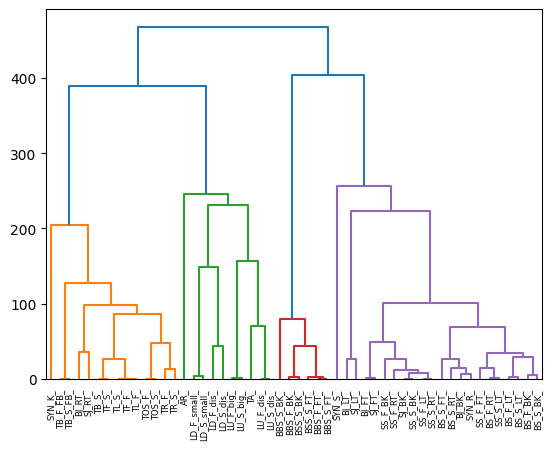
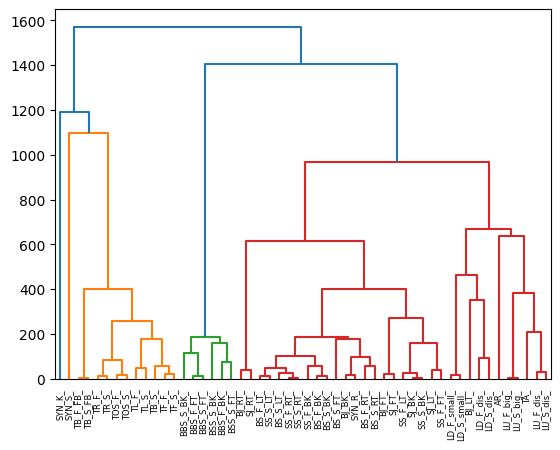
Final DTW horizontal and vertical vector results

Changed region(s): [[0.0, 0.0311, 1.0, 0.8711], [0.0616, 0.8711, 0.9855, 0.9956], [0.5543, 0.0311, 0.5851, 0.0622]]

diff --git a/Vector_vertical_sim.py b/Vector_vertical_sim.py
@@ -1,9 +1,9 @@
-from common_funs import compute_df_query, compute_files_ls
-from lb_funs import calc_min_dist_MD, upper_envelope, lower_envelope, construct_lower_MBRs, construct_upper_MBRs
+from common_funs import compute_df_query, compute_files_ls, vector_vertical
 
 import numpy as np
 import pandas as pd
 import warnings
+
 import time
 from scipy.cluster.hierarchy import dendrogram, linkage
 from scipy.spatial.distance import squareform
@@ -11,10 +11,9 @@ from sklearn.cluster import AgglomerativeClustering
 import matplotlib.pyplot as plt
 warnings.filterwarnings('ignore')
 
-sakoe_chiba = 20
-N = 20
-
 path = "./files_dances"
+n_frames = 6
+
 # group files belonging to each video in a different sublist, combine all sublist into one list
 files_ls = compute_files_ls(path)
 dendro_arr_fill = np.zeros((52, 52))
@@ -23,31 +22,22 @@ for index_query in range(0, 52):
     # compute angle vectors for query video
     newDF_query = compute_df_query(path, files_ls, index_query)
 
-    u = upper_envelope(newDF_query, sakoe_chiba)
-    l = lower_envelope(newDF_query, sakoe_chiba)
-
-    Q_u_r = construct_upper_MBRs(u, N)
-    Q_l_r = construct_lower_MBRs(l, N)
-
     # loop over all other videos to be compared with query
     for g in range(index_query + 1, 52):
         newDF = compute_df_query(path, files_ls, g)
         # compute DTW similarity
-
-        T_u_r = construct_upper_MBRs(newDF, N)
-        T_l_r = construct_lower_MBRs(newDF, N)
-        lb1 = calc_min_dist_MD(T_u_r, T_l_r, Q_u_r, Q_l_r, N)
-        dendro_arr_fill[index_query, g] = lb1
-        #print(g)
+        dtw_sim = vector_vertical(newDF, newDF_query, n_frames)
+        dendro_arr_fill[index_query, g] = dtw_sim
+        print(g)
     print(index_query)
 
 end = time.time()
 print(end - start)
 
 dendro_arr_complete = dendro_arr_fill + dendro_arr_fill.T - np.diag(np.diag(dendro_arr_fill))
-pd.DataFrame(dendro_arr_complete).to_csv("DTW_lb_sim_arr_cut_filtered_csv")
+pd.DataFrame(dendro_arr_complete).to_csv("Vector_vertical_sim_arr_filtered_csv")
 clustering = AgglomerativeClustering(n_clusters = 9, affinity = 'precomputed', linkage = 'average').fit(dendro_arr_complete)
-file1 = open("DTW_lb_sim_arr_cut_filtered.txt","w")
+file1 = open("Vector_vertical_arr_filtered.txt","w")
 txt_time = "time taken for simulation " + str(end - start)
 file1.writelines(str(clustering.labels_) + txt_time)
 file1.close()
@@ -69,4 +59,4 @@ dists = squareform(dendro_arr_complete)
 Z = linkage(dists, 'average')
 plt.figure()
 dn = dendrogram(Z, labels = files_names)
-plt.savefig('./Dendrograms/DTW_lb_dendro_cut_filtered.png', format='png', bbox_inches='tight')
+plt.savefig('./Dendrograms/Vector_vertical_dendro_filtered.png', format='png', bbox_inches='tight')

diff --git a/common_funs.py b/common_funs.py
@@ -101,7 +101,7 @@ def dtw_cosSim_horizontal(s, t):
 
 # compute df for query
 def compute_df_query(path, files_ls, index):
-    newDF_AR = pd.DataFrame(index=range(10))
+    newDF_AR = pd.DataFrame(index=range(29))
     i = 0
     for data in files_ls[index]:
         f = open(os.path.join(path, data), 'r')
@@ -143,12 +143,11 @@ def compute_query_ls(path, index):
     files_AR.append(file)
     return files_AR
 
-def vector_vertical(s, t):
+def vector_vertical(s, t, n_frames):
     n_cols, m_cols = len(s.columns), len(t.columns)
     # vectors are of different lengths, take the shortest and loop over values for both videos for that range
     min_cols = min(n_cols, m_cols)
     sim_ls = []
-    n_frames = 6
     # general case
     for i in range(min_cols):
         sim = 0
